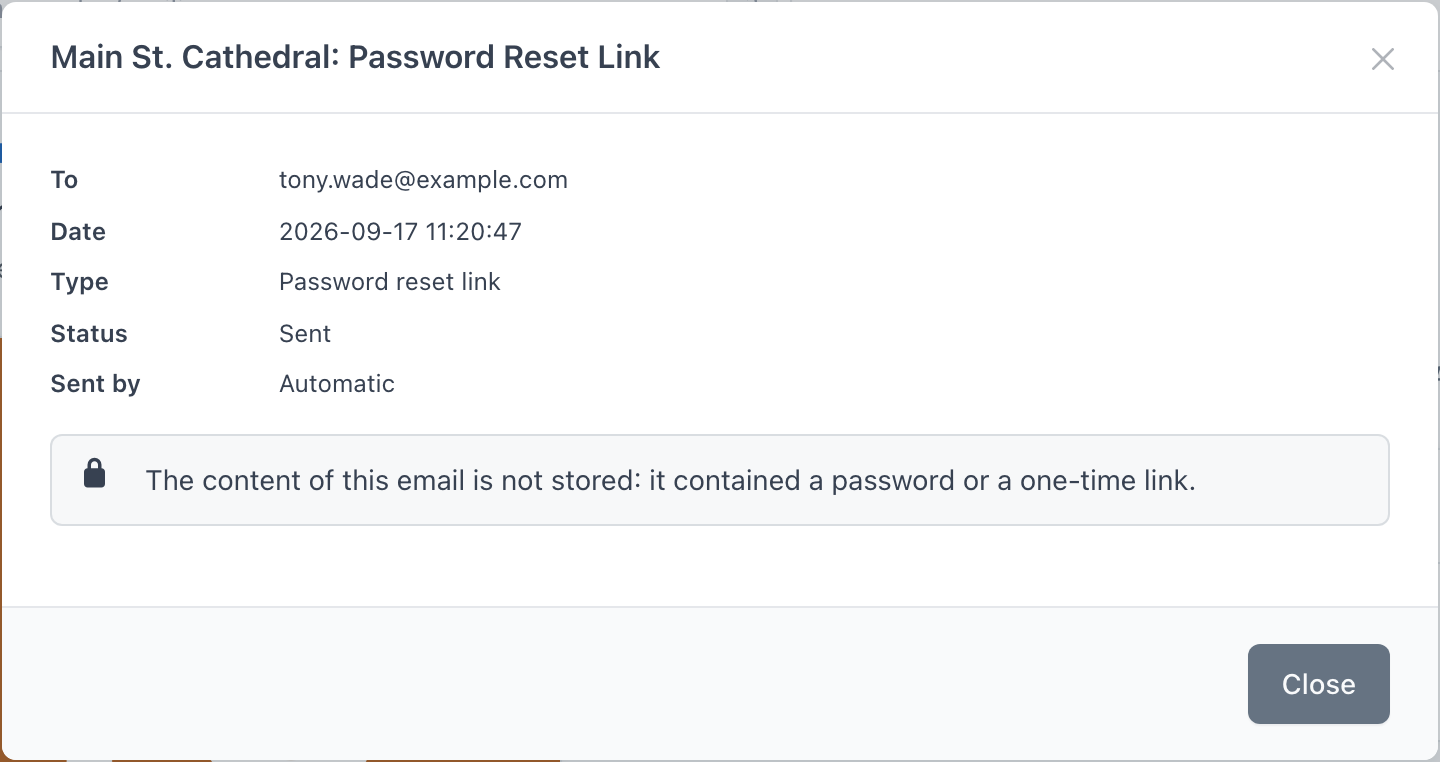
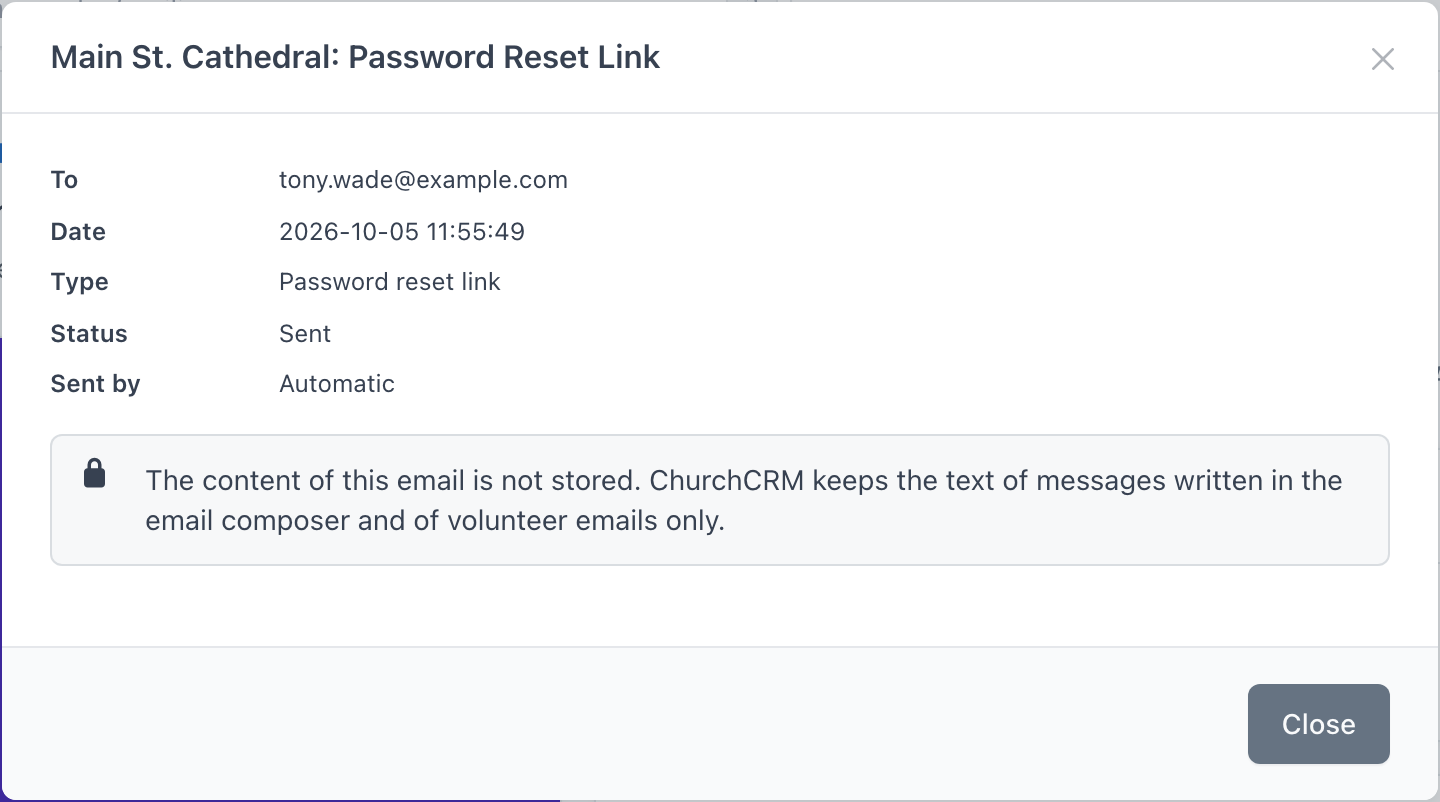
docs(email): readable volunteer email types and the new not-stored note
ChurchCRM/CRM#10246 at 4a3049ddc names every kind of email in the history:
volunteer emails now read Volunteer assignment, Volunteer reminder,
Volunteer declined, Volunteers needed, Volunteer sign-up, Substitute
proposed, Substitute decision or Offer to help, and an unknown kind reads
Email. The note on an email whose content is not kept no longer blames a
password; it says only composer messages and volunteer emails keep their
text.

- persons.md: the Type column lists the volunteer types; the not-stored
  paragraph quotes the new note.
- email-history-modal-not-stored.png retaken with the new note.

diff --git a/docs/user-guide/persons.md b/docs/user-guide/persons.md
@@ -84,7 +84,7 @@ The **Recent Emails** card on the Person View lists the five latest emails to th
 | Column | What it shows |
 |--------|---------------|
 | **Date** | When the email was sent |
-| **Type** | What kind of email it was: Message (written in the composer), Birthday greeting, Family verification, Password reset link, New account, Notification, and so on |
+| **Type** | What kind of email it was: Message (written in the composer), Birthday greeting, Family verification, Password reset link, New account, Notification, and so on. Volunteer emails show Volunteer assignment, Volunteer reminder, Volunteer declined, Volunteers needed, Volunteer sign-up, Substitute proposed, Substitute decision, or Offer to help. An email of a kind ChurchCRM does not know shows Email |
 | **Subject** | The subject line; click it to open the email |
 | **Status** | **Sent**, **Failed** (the mail server refused it; hover over the badge for the error), or **Skipped** (email sending was turned off, or no mail server was set up, at the time) |
 | **Sent by** | The user who wrote it, or **Automatic** for emails ChurchCRM sent on its own |
@@ -99,7 +99,7 @@ Click a subject to see the email as it was sent, with the recipient address, dat
 
 ![An email opened from the history, shown as it was sent](/img/user-guide/email-history-modal.png)
 
-ChurchCRM keeps the full content of messages written in the composer and of volunteer emails. For every other email it stores the subject, date, and status only, because many of them (account emails, password reset links) contain a password or a one-time link. Opening one shows **The content of this email is not stored** instead of the message.
+ChurchCRM keeps the full content of messages written in the composer and of volunteer emails. For every other email it stores the subject, date, and status only. Opening one shows a note instead of the message: **The content of this email is not stored. ChurchCRM keeps the text of messages written in the email composer and of volunteer emails only.**
 
 ![An account email in the history: the content is not stored](/img/user-guide/email-history-modal-not-stored.png)
 
